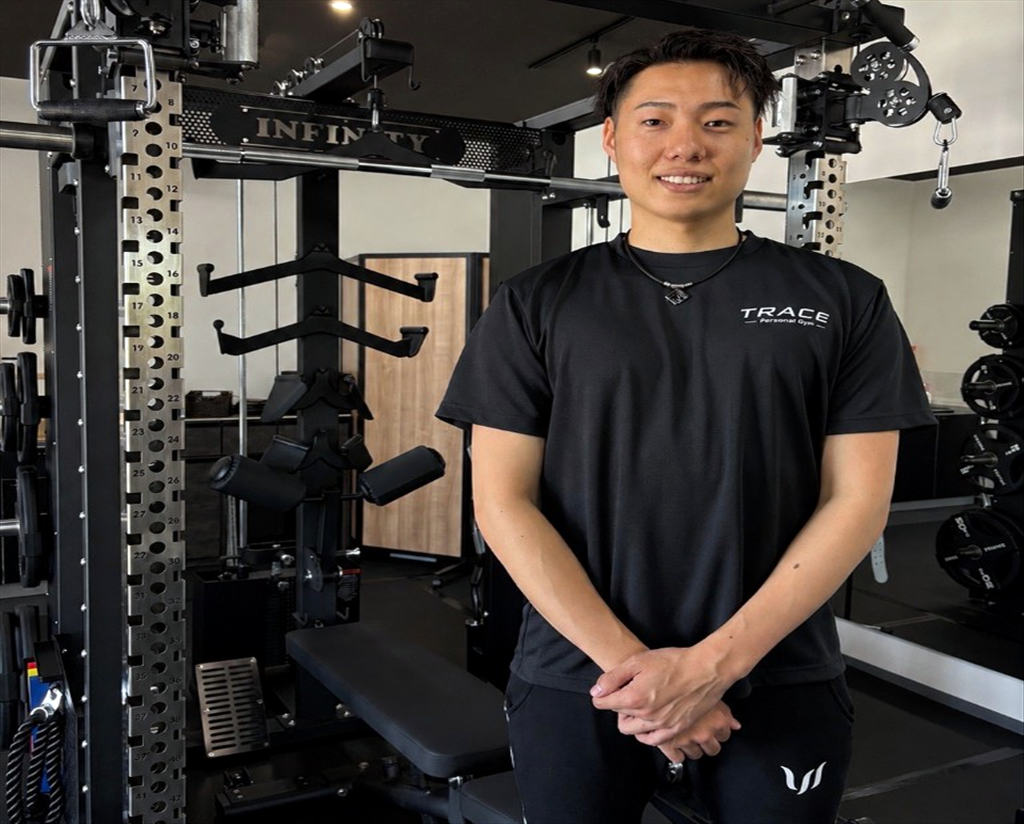
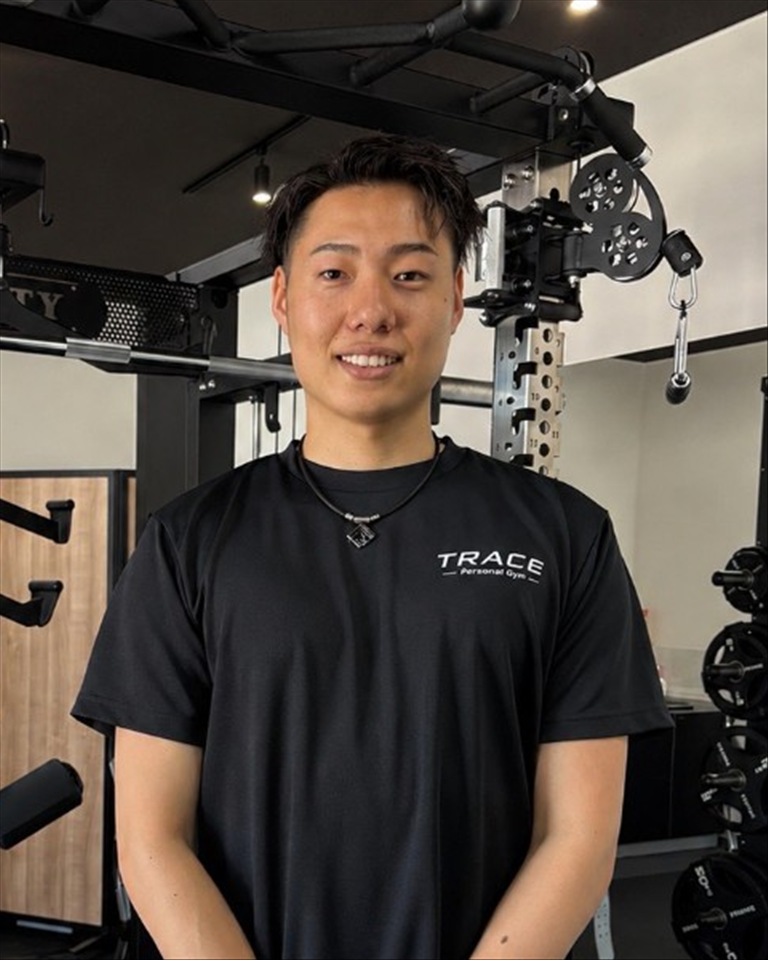
設備左を全景・右をダンベルラックに差し替え、トレーナー写真の中央配置を修正。
キャッシュバスターを v=202607266 に更新。

diff --git a/index.html b/index.html
@@ -21,7 +21,7 @@
   <title>パーソナルジム TRACE | 佐賀市神野西 — 続けられる人を作る</title>
   <link rel="icon" href="assets/img/logo.svg" type="image/svg+xml">
   <link rel="preload" href="assets/img/hero-gym.webp" as="image" type="image/webp" fetchpriority="high">
-  <link rel="stylesheet" href="style.css?v=202607262">
+  <link rel="stylesheet" href="style.css?v=202607266">
   <script type="application/ld+json">
   {
     "@context": "https://schema.org",
@@ -193,10 +193,10 @@
         </div>
         <div class="equipment__grid">
           <figure class="photo photo--standard reveal">
-            <img class="photo__img photo__img--equipment" src="assets/img/equipment.webp?v=202607265" alt="パーソナルジム TRACE ジム設備全景" width="1024" height="768" loading="lazy" decoding="async">
+            <img class="photo__img photo__img--equipment" src="assets/img/equipment.webp?v=202607266" alt="パーソナルジム TRACE ジム設備全景" width="768" height="960" loading="lazy" decoding="async">
           </figure>
           <figure class="photo photo--standard reveal">
-            <img class="photo__img photo__img--equipment-alt" src="assets/img/studio-02.webp?v=202607265" alt="パーソナルジム TRACE パワーラック" width="1024" height="768" loading="lazy" decoding="async">
+            <img class="photo__img photo__img--equipment-alt" src="assets/img/studio-02.webp?v=202607266" alt="パーソナルジム TRACE ダンベルラック" width="768" height="960" loading="lazy" decoding="async">
           </figure>
         </div>
         <div class="section-cta reveal">
@@ -264,7 +264,7 @@
         </div>
         <article class="trainer-card trainer-card--premium reveal">
           <figure class="photo photo--standard trainer-card__visual">
-            <img class="photo__img photo__img--trainer" src="assets/img/trainer-profile.webp?v=202607265" alt="パーソナルジム TRACE 代表トレーナー" width="1024" height="824" loading="lazy" decoding="async">
+            <img class="photo__img photo__img--trainer" src="assets/img/trainer-profile.webp?v=202607266" alt="パーソナルジム TRACE 代表トレーナー" width="768" height="960" loading="lazy" decoding="async">
           </figure>
           <div class="trainer-card__body">
             <p class="trainer-card__role">代表トレーナー</p>

diff --git a/style.css b/style.css
@@ -822,7 +822,7 @@ ol { list-style: none; }
 }
 
 .photo__img--interior { object-position: 50% 38%; }
-.photo__img--trainer { object-position: 50% 42%; }
+.photo__img--trainer { object-position: 50% 40%; }
 .photo__img--equipment { object-position: 50% 48%; }
 .photo__img--equipment-alt { object-position: 50% 44%; }
 .photo__img--program-01 { object-position: 46% 36%; }
